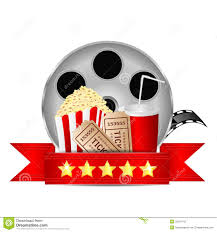
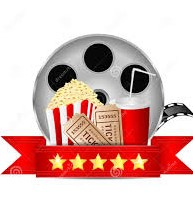
Update Advisory “2019-09-09-friday-night-movie-9-13”

diff --git a/src/pages/blog/2019-09-09-friday-night-movie-9-13.md b/src/pages/blog/2019-09-09-friday-night-movie-9-13.md
@@ -5,8 +5,8 @@ date: 2019-09-09T18:56:30.158Z
 draft: false
 description: Little Giants
 ---
+![](/img/movie2.jpg)
+
 Come watch **"Little Giants"** with us **Friday night** at City Park in MapSync Village. Movie starts at 7:00 pm
-
-
 
 Hope to see you there
